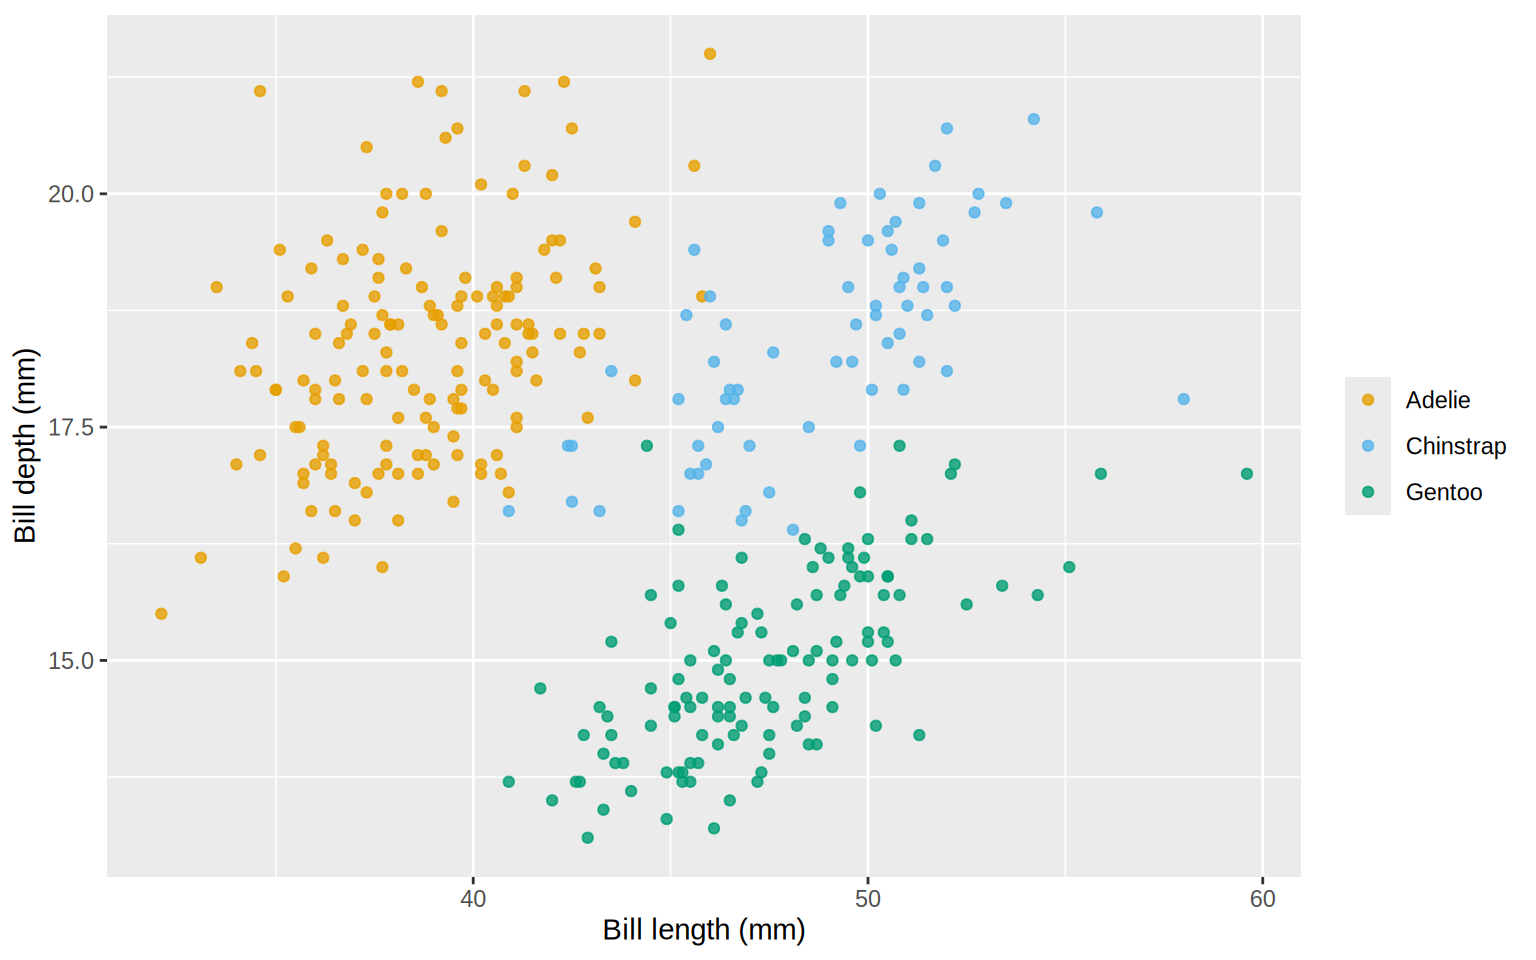
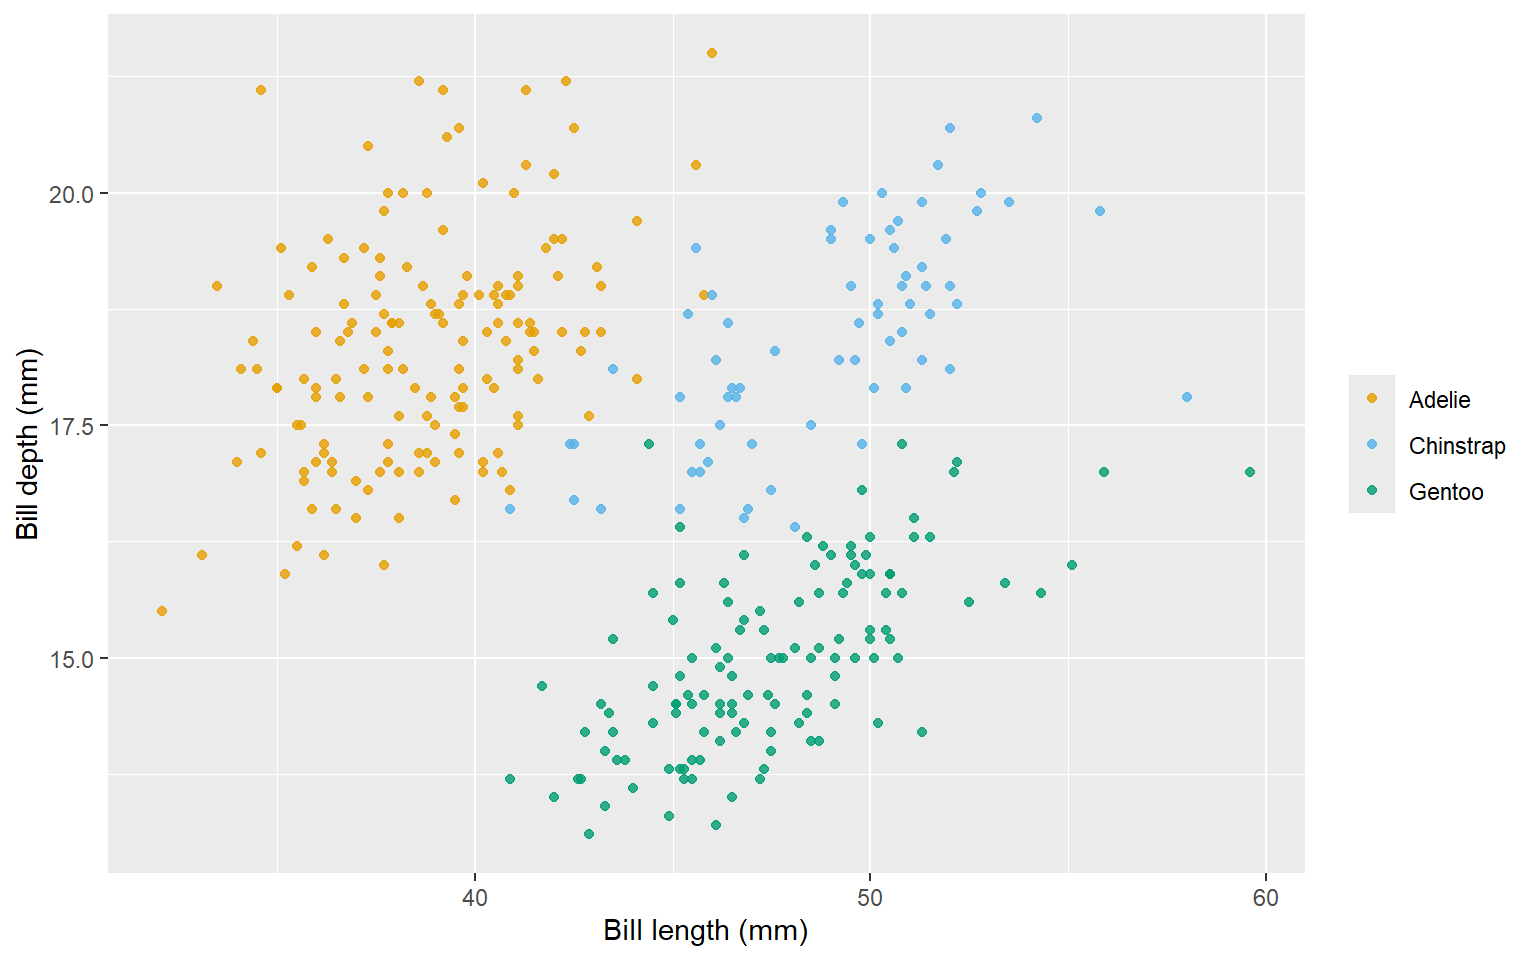
Reduce comments to useful local guidance

diff --git a/theme-html.scss b/theme-html.scss
@@ -1,36 +1,14 @@
 /*-- scss:defaults --*/
-// Link colour -- fix a brand-application gap AND clear AA on every background. Two problems:
-//   1. `_brand.yml`'s intended link colour (typography.link.color) does NOT reach Bootstrap's
-//      $link-color under Quarto 1.9.x -- the compiled --bs-link-color stays the Quarto default
-//      #2a76dd (4.43:1 on white -- fails AA by a hair). (May be 1.9-only; recheck on 1.10+.)
-//   2. A link colour tuned only for white (e.g. the old link-teal #3C7C83, 4.77:1 on white) drops
-//      to ~4.28:1 once the link wraps inline `code` (which sits on the light-grey code background
-//      #f1f3f5) -- so it must be chosen against the code background, not white.
-// #33666B (= darken($primary,15%), matching $teal-dark below) clears AA on white (6.4:1), inline
-// code (5.8:1) and code cells (5.5:1). Setting $link-color here rebuilds every link-derived variable
-// from it in one place -- content links, cross-references (@fig/@tbl/@eq), citation/biblio links,
-// the right-hand TOC nav, references. Kept in sync with the palette in `_brand.yml`. Verified with
-// axe-core (0 link violations, incl. inline-code links).
+// Keep links WCAG AA-compliant, including on inline-code backgrounds.
 $link-color: #33666B;
 
 /*-- scss:rules --*/
-// Defensive sans fallback for the HTML site (mirror of theme.scss for the reveal deck). Quarto's
-// brand layer sets the body/heading font to bare "Albert Sans" (a Google font) with no generic
-// family, so a font-load failure (offline / flaky room wifi) drops to the browser default *serif*.
-// Force the resilient chain on text surfaces (NOT code/pre — those stay monospace/Fira Mono).
-// Albert Sans still leads, so a successful load is unaffected; a failed load degrades to sans.
+// Preserve a sans-serif fallback when the web font is unavailable.
 $brand-sans: "Albert Sans", system-ui, -apple-system, "Segoe UI", Roboto, Helvetica, Arial, sans-serif;
 
 :root { --bs-body-font-family: #{$brand-sans} !important; }
 
-// Blockquotes (the lab "Goal:" boxes): Quarto colours blockquote *text* from `$secondary` (the
-// brand's teal-light #A6CBCF) via its `body-secondary` mixin — only ~1.7:1 on white, below WCAG AA
-// (4.5:1 for body text). There is no `$blockquote-color` Sass variable to set (checked against
-// quarto-cli), so override the element directly — but with brand Sass vars, not hardcoded hex:
-// readable `$body-color` (brand ink) for the text, `$primary` (brand teal) as the left-border accent.
-// Include `.blockquote`: Quarto tags these boxes `<blockquote class="blockquote">`, and Bootstrap's
-// `.blockquote { color: $secondary }` (a class, higher specificity than a bare element) otherwise
-// wins and keeps the teal-light default.
+// Override Bootstrap's higher-specificity blockquote colour for readable goal boxes.
 blockquote,
 .blockquote {
   color: $body-color;
@@ -44,60 +22,33 @@ h1, h2, h3, h4, h5, h6,
   font-family: #{$brand-sans} !important;
 }
 
-// Work around a Quarto bug: using `brand` makes Quarto ship a dark "alternate" highlight sheet
-// (class `quarto-color-alternate`) even on this light-only site (quarto-cli#13450), and its rules
-// leak into light mode for token classes the light (arrow) theme leaves colorless. Under arrow
-// those are exactly the shell command words -- `.ex` (external, e.g. `quarto`) and `.bu` (builtin,
-// e.g. `cd`), which arrow-light never colors while arrow-dark does (quarto-cli#14299) -- so on the
-// light page they inherit the dark sheet's bold cyan (#00e0e0). Force them back to plain body ink
-// until upstream fixes it. (Verified: restores arrow's intended light look, #003B4F normal weight.)
+// Prevent dark syntax-highlighting styles from leaking into the light theme.
 code span.ex, code span.bu {
   color: inherit;
   font-weight: inherit;
 }
 
-// A darkened brand teal for surfaces where the plain brand teals fail WCAG AA: $primary (#4C979F) is
-// too light both as a bar background under near-white text (3.33:1) and as text on white (3.1:1), and
-// $secondary (teal-light #A6CBCF) is far too light as text (1.74:1). One derived shade (#33666B,
-// ~6.4:1 on white) fixes both without disturbing the palette elsewhere, and is the same value used
-// for $link-color above. Verified with axe-core.
+// Use a darker brand colour where the base palette does not meet WCAG AA.
 $teal-dark: darken($primary, 15%);
 
-// Navbar: Quarto paints the bar with $primary and near-white text -> 3.33:1 (below AA's 4.5:1).
-// Darken ONLY the bar (not the whole palette, which would recolour buttons, accents, active states):
-// the near-white nav text then clears AA and the teal identity is kept.
 .navbar { background-color: $teal-dark; }
 
-// Captions + margin content: Bootstrap maps $secondary (brand teal-light #A6CBCF) onto its
-// muted-text roles -- figure/table captions and the entire .column-margin (margin captions, aside
-// notes, and any table dropped there, e.g. the per-species counts kable) -- landing at ~1.74:1, well
-// below AA. Restore readable text with the darkened brand teal; captions stay visually secondary via
-// their smaller font size, not an unreadable colour.
+// Match Quarto's specific margin-caption selectors.
 caption,
 .figure-caption, .subfigure-caption, .table-caption, figcaption,
 .margin-caption, div.aside, aside, .column-margin,
-// Quarto colours a figure caption dropped in the margin with the descendant selector
-// `.column-margin figcaption` (higher specificity than a bare `figcaption`), so match it explicitly
-// or the margin figure caption keeps the teal-light default.
 .column-margin figcaption, .column-margin caption {
   color: $teal-dark;
 }
 
-// Block code inside a list item, paragraph or table cell: Quarto's INLINE-code rule
-// (`p/li/td code.sourceCode`) also matches the block `<code>`, so its semi-transparent background
-// stacks on top of `div.sourceCode`'s identical layer. The darker composite drops the default
-// `arrow` attribute token `.at` (#657422) to 4.43:1 -- below AA. Our labs put every code block
-// inside the Tasks callout lists, so this hit 25 nodes across the two lab pages. Restoring the
-// single layer takes `.at` back to 4.62:1. Reported upstream; remove when Quarto scopes that rule.
+// Avoid stacking Quarto's inline-code background on nested block code.
 li pre > code.sourceCode,
 p pre > code.sourceCode,
 td pre > code.sourceCode {
   background-color: transparent;
 }
 
-// `<details><summary>` (the labs' Session-info block) renders at #7b838a on white = 3.84:1, below
-// AA. This is the shipped default, not ours -- reported upstream as quarto-cli#14383. Use the same
-// darkened teal the other AA fixes use until that lands.
+// Quarto's default details summary colour does not meet WCAG AA.
 details > summary {
   color: $teal-dark;
 }

diff --git a/theme.scss b/theme.scss
@@ -1,12 +1,8 @@
 /*-- scss:defaults --*/
-// RaukR flat look — a thin layer over _brand.yml (which carries the palette + fonts).
-// Keep this minimal: brand does the colors/type; this only adds the flat, dotted-background feel.
+// Flat RaukR layer over the shared brand.
 $border-radius: 0 !default;
 
-// Type scale — match the RaukR house deck (NBISweden/raukr-2026 assets/css/slides.scss) so these
-// slides sit visually alongside the school's own. We reconstruct the numbers here (root + heading
-// ramp) rather than vendoring their CC BY-NC-SA SCSS. Quarto's 40px default was never a deliberate
-// choice and reads oversized next to the house 27px.
+// Match the RaukR house-deck type scale without copying its SCSS.
 $presentation-font-size-root: 27px !default;
 $presentation-h1-font-size: 1.802em !default;
 $presentation-h2-font-size: 1.602em !default;
@@ -18,10 +14,7 @@ $code-block-font-size: 0.7em !default;
 
 /*-- scss:rules --*/
 .reveal {
-  // Brand font is Albert Sans (Google Fonts). If it fails to load (offline, or flaky room wifi at
-  // the event), Quarto's brand value `--r-main-font: Albert Sans` has no generic family, so the
-  // browser drops to its default *serif*. Re-declare the vars with a system SANS fallback so a
-  // font-load failure degrades to sans, not Times.
+  // Preserve a sans-serif fallback when the web font is unavailable.
   --r-main-font: "Albert Sans", system-ui, -apple-system, "Segoe UI", Roboto, Helvetica, Arial, sans-serif;
   --r-heading-font: "Albert Sans", system-ui, -apple-system, "Segoe UI", Roboto, Helvetica, Arial, sans-serif;
 
@@ -34,12 +27,7 @@ $code-block-font-size: 0.7em !default;
   background-color: transparent;
 }
 
-// Two code blocks back-to-back — a header snippet plus the prose/example that uses it (the
-// citations and multi-format slides) — otherwise collapse into one box with only a hairline
-// between them. Give consecutive code blocks vertical breathing room. Quarto wraps each block
-// differently depending on features: bare `div.sourceCode` (no line numbers), a
-// `.code-copy-outer-scaffold` (line-numbered blocks with the copy button), or a
-// `.code-with-filename` (filename tab). Cover every adjacency between those wrappers.
+// Separate consecutive code-block wrappers used by Quarto.
 .reveal {
   $code-wrappers: "div.sourceCode", ".code-copy-outer-scaffold", ".code-with-filename";
   @each $prev in $code-wrappers {

diff --git a/.claude/CLAUDE.md b/.claude/CLAUDE.md
@@ -86,6 +86,13 @@ em-dashes, plain warm words) and strip the LLM tells that keep re-introducing sp
 before/after in **`.claude/references/house-voice.md`**. One principle: written prose *states*; the
 presenter's voice belongs in `::: notes` (fully spoken, exempt). Slide bodies stay terse.
 
+**Comments are local explanations, not authoring notes.** Keep a comment only when adjacent code
+cannot express an important constraint. Prefer one sentence that explains the current reason. Do
+not record editing history, investigation steps, verification logs, teaching plans, commit-style
+summaries, or information already stated in prose or documentation. In participant files, retain
+exercise TODOs, accessibility text, and narrow explanations of surprising code. Do not modify
+generated or vendored comments.
+
 The **slide-craft gotchas** — fit-check every changed slide (`.claude/scripts/slide-shot.mjs`),
 `.center`-slide layout, `code-line-numbers`, `filename`, consecutive-code-block spacing, `echo: fenced`
 to show a cell's `#|` options — are the path-scoped rule **`.claude/rules/slides.md`**
